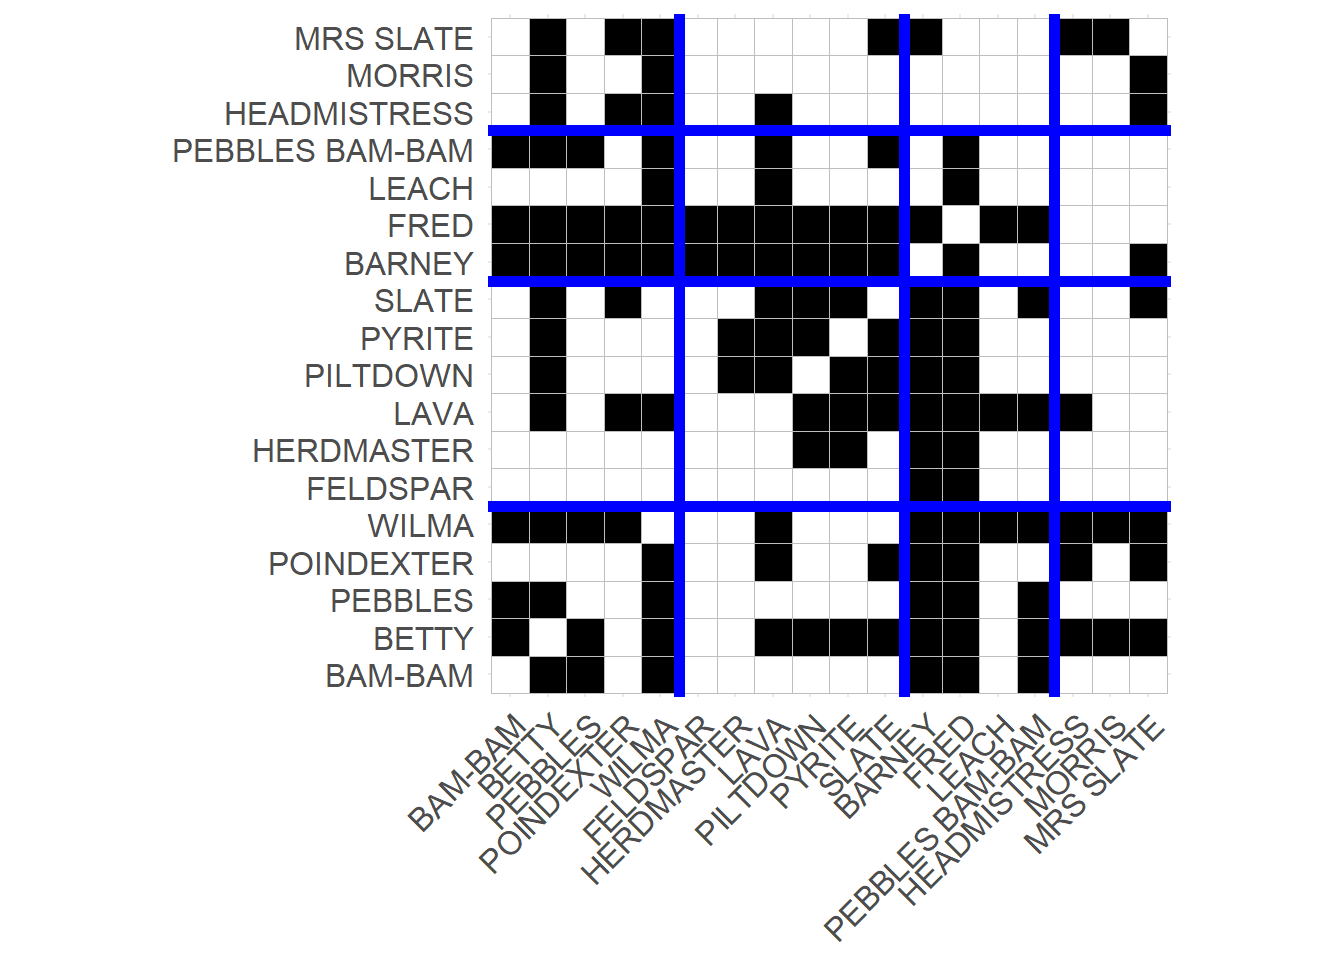
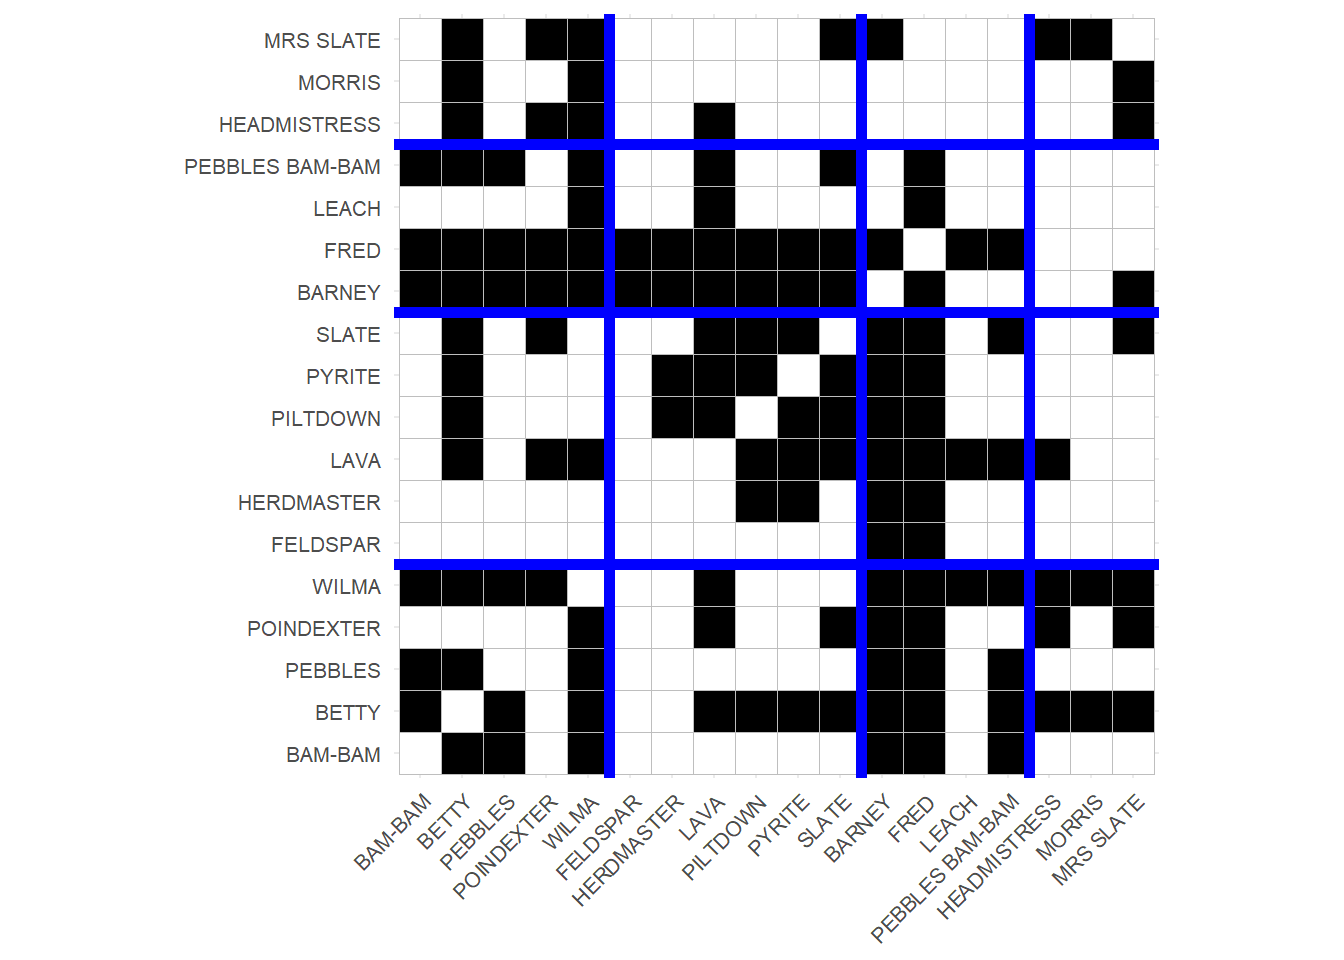
axis text

Changed region(s): [[0.125, 0.0, 0.875, 0.9688], [0.2188, 0.7812, 0.2812, 0.8125], [0.25, 0.875, 0.2812, 0.9062]]

diff --git a/docs/handout4.html b/docs/handout4.html
@@ -1311,16 +1311,17 @@ I 0 0 1 0</code></pre>
 <span id="cb29-4"><a href="#cb29-4"></a>   ord <span class="ot">&lt;-</span> <span class="fu">unlist</span>(<span class="fu">blocks</span>(g.flint, <span class="dv">2</span>))</span>
 <span id="cb29-5"><a href="#cb29-5"></a>   A <span class="ot">&lt;-</span> A[ord, ord]</span>
 <span id="cb29-6"><a href="#cb29-6"></a>   p <span class="ot">&lt;-</span> <span class="fu">ggcorrplot</span>(A, <span class="at">colors =</span> <span class="fu">c</span>(<span class="st">"white"</span>, <span class="st">"white"</span>, <span class="st">"black"</span>)) </span>
-<span id="cb29-7"><a href="#cb29-7"></a>   p <span class="ot">&lt;-</span> p <span class="sc">+</span> <span class="fu">theme</span>(<span class="at">legend.position =</span> <span class="st">"none"</span>,</span>
-<span id="cb29-8"><a href="#cb29-8"></a>                  <span class="at">axis.text =</span> <span class="fu">element_text</span>(<span class="at">size =</span> <span class="dv">3</span>)</span>
-<span id="cb29-9"><a href="#cb29-9"></a>                  )</span>
-<span id="cb29-10"><a href="#cb29-10"></a>   p <span class="ot">&lt;-</span> p <span class="sc">+</span> <span class="fu">geom_hline</span>(<span class="at">yintercept =</span> <span class="fl">5.5</span>, <span class="at">linewidth =</span> <span class="dv">2</span>, <span class="at">color =</span> <span class="st">"blue"</span>)</span>
-<span id="cb29-11"><a href="#cb29-11"></a>   p <span class="ot">&lt;-</span> p <span class="sc">+</span> <span class="fu">geom_vline</span>(<span class="at">xintercept =</span> <span class="fl">5.5</span>, <span class="at">linewidth =</span> <span class="dv">2</span>, <span class="at">color =</span> <span class="st">"blue"</span>)</span>
-<span id="cb29-12"><a href="#cb29-12"></a>   p <span class="ot">&lt;-</span> p <span class="sc">+</span> <span class="fu">geom_hline</span>(<span class="at">yintercept =</span> <span class="fl">11.5</span>, <span class="at">linewidth =</span> <span class="dv">2</span>, <span class="at">color =</span> <span class="st">"blue"</span>)</span>
-<span id="cb29-13"><a href="#cb29-13"></a>   p <span class="ot">&lt;-</span> p <span class="sc">+</span> <span class="fu">geom_vline</span>(<span class="at">xintercept =</span> <span class="fl">11.5</span>, <span class="at">linewidth =</span> <span class="dv">2</span>, <span class="at">color =</span> <span class="st">"blue"</span>)</span>
-<span id="cb29-14"><a href="#cb29-14"></a>   p <span class="ot">&lt;-</span> p <span class="sc">+</span> <span class="fu">geom_hline</span>(<span class="at">yintercept =</span> <span class="fl">15.5</span>, <span class="at">linewidth =</span> <span class="dv">2</span>, <span class="at">color =</span> <span class="st">"blue"</span>)</span>
-<span id="cb29-15"><a href="#cb29-15"></a>   p <span class="ot">&lt;-</span> p <span class="sc">+</span> <span class="fu">geom_vline</span>(<span class="at">xintercept =</span> <span class="fl">15.5</span>, <span class="at">linewidth =</span> <span class="dv">2</span>, <span class="at">color =</span> <span class="st">"blue"</span>)</span>
-<span id="cb29-16"><a href="#cb29-16"></a>   p</span></code><button title="Copy to Clipboard" class="code-copy-button"><i class="bi"></i></button></pre></div>
+<span id="cb29-7"><a href="#cb29-7"></a>   p <span class="ot">&lt;-</span> p <span class="sc">+</span> <span class="fu">theme</span>(<span class="at">legend.position =</span> <span class="st">"none"</span>, </span>
+<span id="cb29-8"><a href="#cb29-8"></a>                  <span class="at">axis.text.y =</span> <span class="fu">element_text</span>(<span class="at">size =</span> <span class="dv">8</span>),</span>
+<span id="cb29-9"><a href="#cb29-9"></a>                  <span class="at">axis.text.x =</span> <span class="fu">element_text</span>(<span class="at">size =</span> <span class="dv">8</span>),</span>
+<span id="cb29-10"><a href="#cb29-10"></a>                  )</span>
+<span id="cb29-11"><a href="#cb29-11"></a>   p <span class="ot">&lt;-</span> p <span class="sc">+</span> <span class="fu">geom_hline</span>(<span class="at">yintercept =</span> <span class="fl">5.5</span>, <span class="at">linewidth =</span> <span class="dv">2</span>, <span class="at">color =</span> <span class="st">"blue"</span>)</span>
+<span id="cb29-12"><a href="#cb29-12"></a>   p <span class="ot">&lt;-</span> p <span class="sc">+</span> <span class="fu">geom_vline</span>(<span class="at">xintercept =</span> <span class="fl">5.5</span>, <span class="at">linewidth =</span> <span class="dv">2</span>, <span class="at">color =</span> <span class="st">"blue"</span>)</span>
+<span id="cb29-13"><a href="#cb29-13"></a>   p <span class="ot">&lt;-</span> p <span class="sc">+</span> <span class="fu">geom_hline</span>(<span class="at">yintercept =</span> <span class="fl">11.5</span>, <span class="at">linewidth =</span> <span class="dv">2</span>, <span class="at">color =</span> <span class="st">"blue"</span>)</span>
+<span id="cb29-14"><a href="#cb29-14"></a>   p <span class="ot">&lt;-</span> p <span class="sc">+</span> <span class="fu">geom_vline</span>(<span class="at">xintercept =</span> <span class="fl">11.5</span>, <span class="at">linewidth =</span> <span class="dv">2</span>, <span class="at">color =</span> <span class="st">"blue"</span>)</span>
+<span id="cb29-15"><a href="#cb29-15"></a>   p <span class="ot">&lt;-</span> p <span class="sc">+</span> <span class="fu">geom_hline</span>(<span class="at">yintercept =</span> <span class="fl">15.5</span>, <span class="at">linewidth =</span> <span class="dv">2</span>, <span class="at">color =</span> <span class="st">"blue"</span>)</span>
+<span id="cb29-16"><a href="#cb29-16"></a>   p <span class="ot">&lt;-</span> p <span class="sc">+</span> <span class="fu">geom_vline</span>(<span class="at">xintercept =</span> <span class="fl">15.5</span>, <span class="at">linewidth =</span> <span class="dv">2</span>, <span class="at">color =</span> <span class="st">"blue"</span>)</span>
+<span id="cb29-17"><a href="#cb29-17"></a>   p</span></code><button title="Copy to Clipboard" class="code-copy-button"><i class="bi"></i></button></pre></div>
 <div class="cell-output-display">
 <p><img src="handout4_files/figure-html/unnamed-chunk-25-1.png" class="img-fluid" width="672"></p>
 </div>
